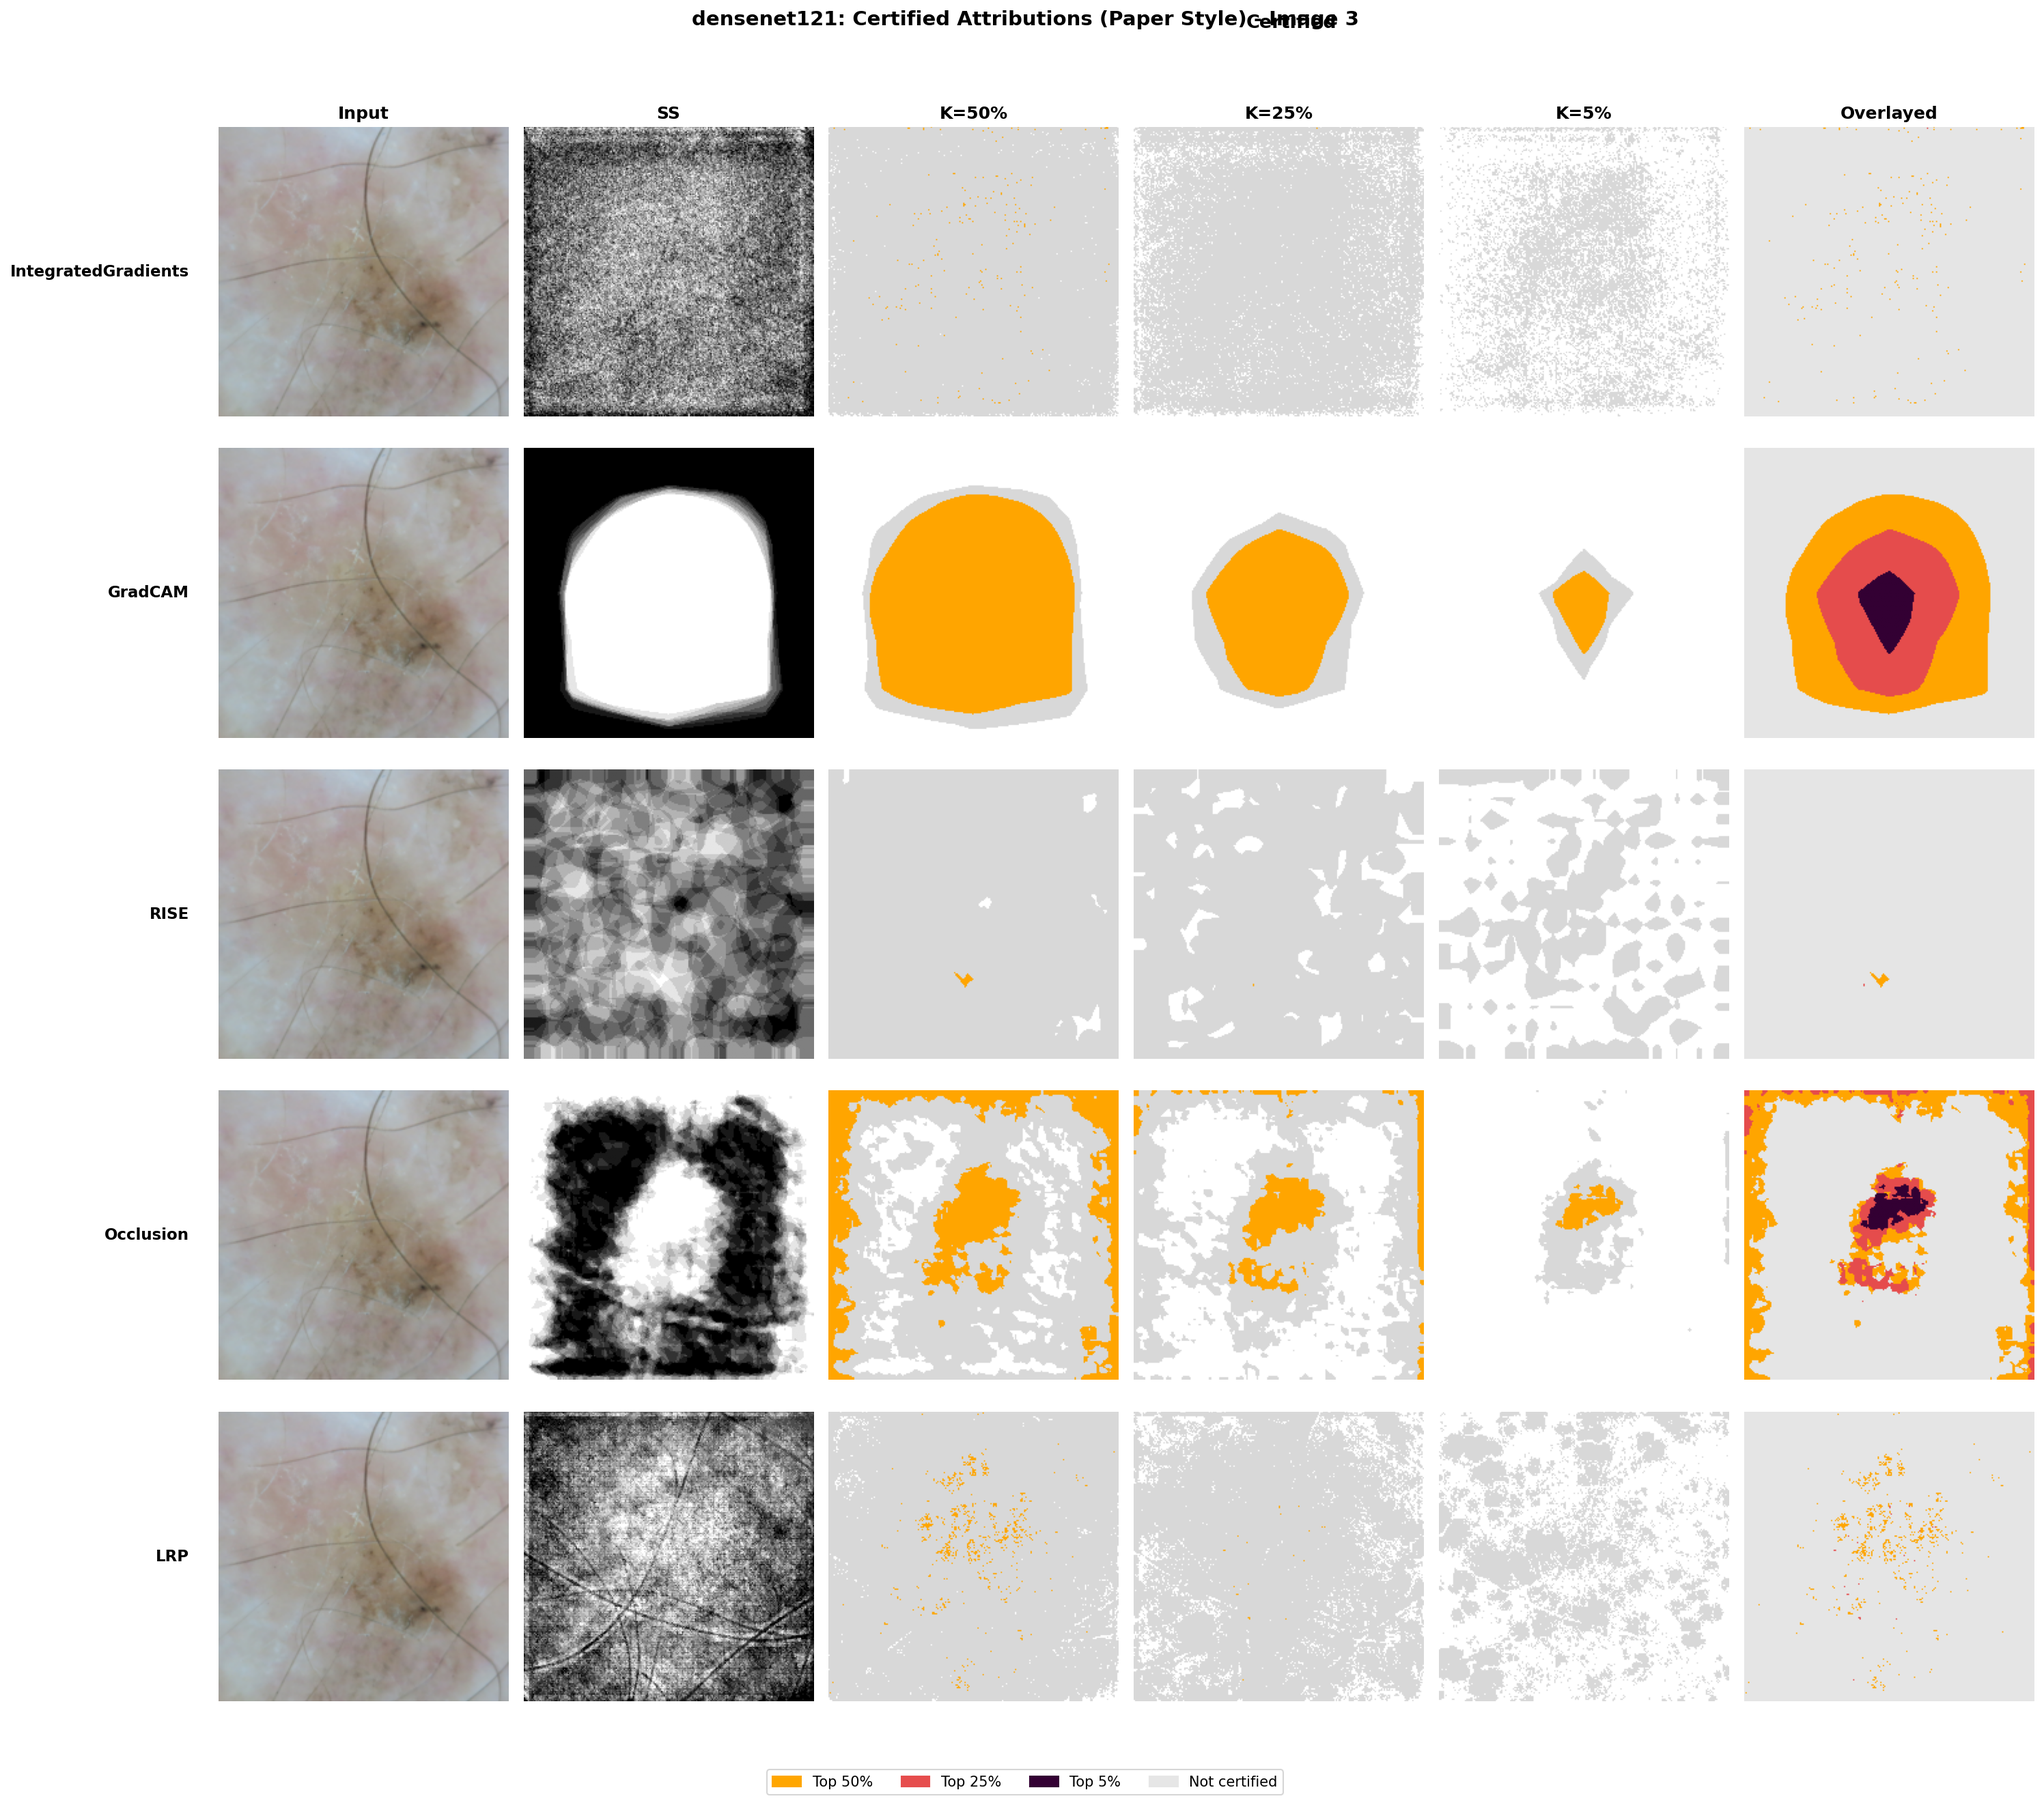
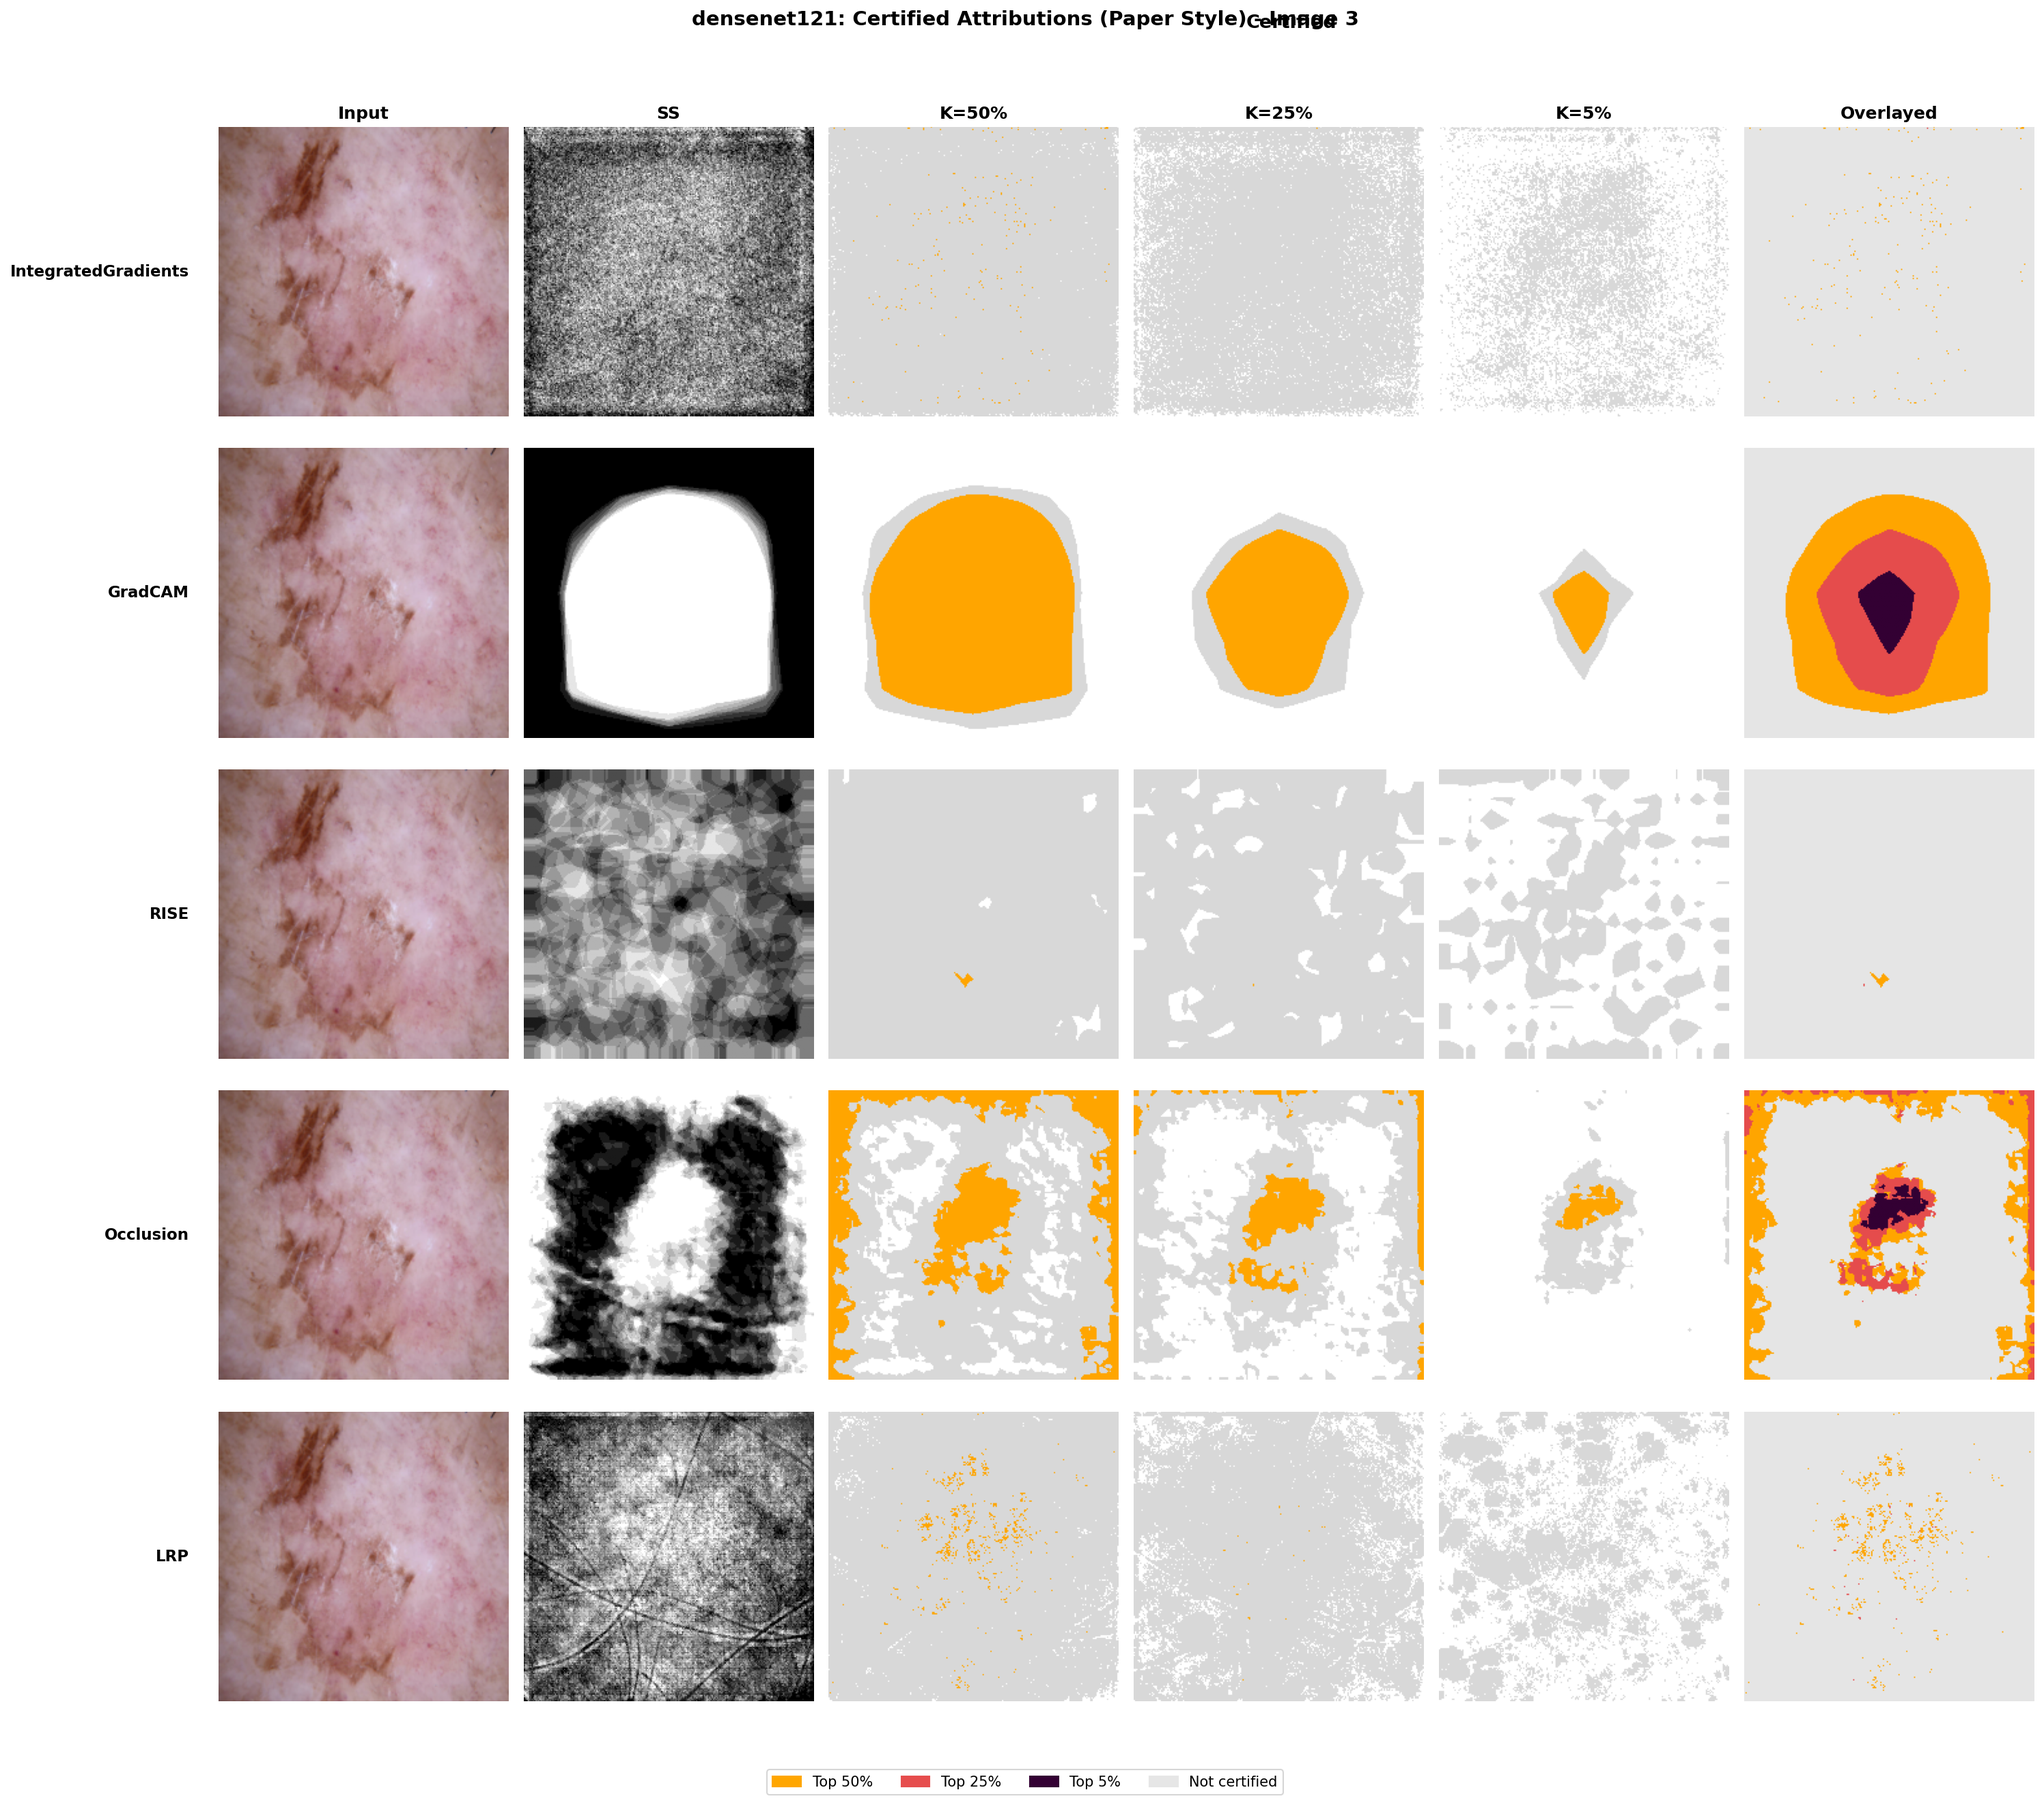
add: path update

Changed region(s): [[0.0932, 0.062, 0.2486, 0.9614]]

diff --git a/regenerate_cert_panels.py b/regenerate_cert_panels.py
@@ -1,0 +1,223 @@
+#!/usr/bin/env python
+"""
+Regenerate paper-style certification panels from saved certification results pickle.
+
+- Loads the dataset (val split) to fetch original images.
+- Reads cert_results from a pickle produced by certify_*_server.py.
+- Rebuilds paper-style panels for every certified image of every model in the pickle.
+- Does NOT rerun certification or smoothing.
+
+Usage example:
+  python regenerate_cert_panels.py \
+    --results_pkl output/certify/isic/results_20251230_120000.pkl \
+    --data_root data/raw/isic \
+    --certify_dir output/certify/isic \
+    --split val
+
+Optional:
+  --models resnet18 densenet121   # limit to these models
+  --methods IntegratedGradients GradCAM RISE Occlusion LRP  # reorder/limit
+  --max_images 0  # 0 means no limit
+"""
+
+import argparse
+import pickle
+from pathlib import Path
+from collections import defaultdict
+
+import numpy as np
+import matplotlib.pyplot as plt
+import matplotlib.patches as mpatches
+
+import torch
+from torchvision import transforms
+from torch.utils.data import DataLoader
+
+# Dataset loaders per project
+from src.datasets.isic import ISICDataset
+from src.datasets.chestxray import ChestXrayDataset
+from src.datasets.brain_mri import BrainMRIDataset
+from src.datasets.fundus import FundusDataset
+
+DATASET_LOADERS = {
+    "isic": ISICDataset,
+    "chestxray": ChestXrayDataset,
+    "brain_mri": BrainMRIDataset,
+    "fundus": FundusDataset,
+}
+
+DEFAULT_METHODS = ["IntegratedGradients", "GradCAM", "RISE", "Occlusion", "LRP"]
+
+
+def _tensor_to_hwc(image_tensor: torch.Tensor) -> np.ndarray:
+    img = image_tensor.detach().cpu().clamp(0, 1).numpy()
+    if img.ndim == 4:
+        img = img[0]
+    return np.transpose(img, (1, 2, 0))
+
+
+def generate_paper_panel_all_methods(save_dir: Path, model_name: str, img_idx: int,
+                                     img_tensor: torch.Tensor, method_results_map: dict,
+                                     methods_order=None):
+    if methods_order is None:
+        methods_order = DEFAULT_METHODS
+    save_dir.mkdir(parents=True, exist_ok=True)
+    img = _tensor_to_hwc(img_tensor)
+    n_rows = len(methods_order)
+    n_cols = 6  # Input, SS, K=50%, K=25%, K=5%, Overlayed
+    fig, axes = plt.subplots(n_rows, n_cols, figsize=(20, 3.5 * n_rows))
+    axes = np.atleast_2d(axes)
+
+    for r, mname in enumerate(methods_order):
+        res_by_k = method_results_map.get(mname, {})
+        # Column 0: Input image
+        ax_input = axes[r, 0]
+        ax_input.imshow(img)
+        if r == 0:
+            ax_input.set_title('Input', fontsize=12, fontweight='bold')
+        ax_input.text(-0.1, 0.5, mname, transform=ax_input.transAxes,
+                     fontsize=11, fontweight='bold', va='center', ha='right', rotation=0)
+        ax_input.axis("off")
+
+        # Column 1: SS (Smoothed Sparsified)
+        ax_ss = axes[r, 1]
+        ss_map = None
+        if res_by_k:
+            ss_map = next(iter(res_by_k.values())).get("ss_map")
+        ax_ss.imshow(ss_map if ss_map is not None else np.zeros(img.shape[:2]), cmap="gray", vmin=0, vmax=1)
+        if r == 0:
+            ax_ss.set_title('SS', fontsize=12, fontweight='bold')
+        ax_ss.axis("off")
+
+        # Columns 2-4: K=50%, 25%, 5% certified maps
+        for ci, k in enumerate([50, 25, 5], start=2):
+            axk = axes[r, ci]
+            res = res_by_k.get(k, {})
+            c_map = res.get("certified_map")
+            if c_map is not None:
+                viz_map = np.ones((c_map.shape[0], c_map.shape[1], 3))
+                viz_map[c_map == 0] = [1.0, 1.0, 1.0]
+                viz_map[c_map == 1] = [1.0, 0.65, 0.0]
+                viz_map[c_map == -1] = [0.85, 0.85, 0.85]
+                axk.imshow(viz_map)
+            else:
+                axk.imshow(np.ones(img.shape[:2] + (3,)) * 0.85)
+            if r == 0:
+                axk.set_title(f'K={k}%', fontsize=12, fontweight='bold')
+            axk.axis("off")
+
+        # Column 5: Overlayed (combine all K certified pixels)
+        axo = axes[r, 5]
+        c50 = res_by_k.get(50, {}).get("certified_map")
+        c25 = res_by_k.get(25, {}).get("certified_map")
+        c5 = res_by_k.get(5, {}).get("certified_map")
+        if c50 is None:
+            c50 = np.zeros(img.shape[:2])
+        if c25 is None:
+            c25 = np.zeros(img.shape[:2])
+        if c5 is None:
+            c5 = np.zeros(img.shape[:2])
+        overlay_map = np.ones(img.shape[:2] + (3,)) * 0.9
+        overlay_map[c50 == 1] = [1.0, 0.65, 0.0]
+        overlay_map[c25 == 1] = [0.9, 0.3, 0.3]
+        overlay_map[c5 == 1] = [0.2, 0.0, 0.2]
+        axo.imshow(overlay_map)
+        if r == 0:
+            axo.set_title('Overlayed', fontsize=12, fontweight='bold')
+        axo.axis("off")
+
+    fig.text(0.63, 0.97, 'Certified', ha='center', fontsize=13, fontweight='bold')
+    legend_patches = [
+        mpatches.Patch(color=[1.0, 0.65, 0.0], label='Top 50%'),
+        mpatches.Patch(color=[0.9, 0.3, 0.3], label='Top 25%'),
+        mpatches.Patch(color=[0.2, 0.0, 0.2], label='Top 5%'),
+        mpatches.Patch(color=[0.9, 0.9, 0.9], label='Not certified'),
+    ]
+    fig.legend(handles=legend_patches, loc='lower center', ncol=4,
+              bbox_to_anchor=(0.5, -0.02), fontsize=10)
+    plt.suptitle(f'{model_name}: Certified Attributions (Paper Style) - Image {img_idx}',
+                fontsize=14, fontweight='bold', y=0.98)
+    plt.tight_layout(rect=[0, 0.02, 1, 0.96])
+    out_path = save_dir / f"{model_name}_img{img_idx}_paper_style.png"
+    plt.savefig(out_path, dpi=150, bbox_inches="tight")
+    plt.close()
+    return out_path
+
+
+def build_image_index(cert_results: dict, methods_order):
+    per_model = {}
+    for model_name, methods_dict in cert_results.items():
+        images_map = defaultdict(lambda: {"label": None, "method_results_map": defaultdict(dict)})
+        for method_name, k_dict in methods_dict.items():
+            if methods_order and method_name not in methods_order:
+                continue
+            for k_percent, entries in k_dict.items():
+                for entry in entries:
+                    img_idx = entry.get("image_idx")
+                    label = entry.get("label")
+                    res = entry.get("results", {})
+                    images_map[img_idx]["label"] = label
+                    images_map[img_idx]["method_results_map"][method_name][k_percent] = res
+        per_model[model_name] = images_map
+    return per_model
+
+
+def load_dataset(dataset_name: str, data_root: Path, split: str):
+    if dataset_name not in DATASET_LOADERS:
+        raise ValueError(f"Unsupported dataset '{dataset_name}'")
+    ds_cls = DATASET_LOADERS[dataset_name]
+    val_transform = transforms.Compose([
+        transforms.Resize((224, 224)),
+        transforms.ToTensor(),
+    ])
+    return ds_cls(str(data_root), split=split, transform=val_transform)
+
+
+def parse_args():
+    p = argparse.ArgumentParser("Regenerate certification panels from pickle")
+    p.add_argument("--results_pkl", required=True, help="Path to results_<timestamp>.pkl")
+    p.add_argument("--certify_dir", required=True, help="Base certify dir (panels will be saved here)")
+    p.add_argument("--data_root", required=True, help="Dataset root (e.g., data/raw/isic)")
+    p.add_argument("--split", default="val")
+    p.add_argument("--dataset", required=True, choices=list(DATASET_LOADERS.keys()))
+    p.add_argument("--models", nargs="*", default=None, help="Optional whitelist of model names")
+    p.add_argument("--methods", nargs="*", default=None, help="Optional whitelist/order of methods")
+    p.add_argument("--max_images", type=int, default=0, help="Limit images per model (0 = no limit)")
+    return p.parse_args()
+
+
+def main():
+    args = parse_args()
+    results_pkl = Path(args.results_pkl)
+    certify_dir = Path(args.certify_dir)
+    data_root = Path(args.data_root)
+    methods_order = args.methods if args.methods else DEFAULT_METHODS
+
+    with open(results_pkl, "rb") as f:
+        cert_results = pickle.load(f)
+
+    per_model = build_image_index(cert_results, methods_order)
+    dataset = load_dataset(args.dataset, data_root, args.split)
+
+    for model_name, images_map in per_model.items():
+        if args.models and model_name not in args.models:
+            continue
+        print(f"Model: {model_name} (images: {len(images_map)})")
+        count = 0
+        for img_idx, data in images_map.items():
+            if args.max_images and count >= args.max_images:
+                break
+            method_results_map = {m: dict(kdict) for m, kdict in data["method_results_map"].items()}
+            if not method_results_map:
+                continue
+            sample = dataset[img_idx]
+            image_tensor = sample["image"] if isinstance(sample, dict) else sample[0]
+            out_panel = generate_paper_panel_all_methods(certify_dir, model_name, img_idx, image_tensor, method_results_map, methods_order)
+            print(f"  ✓ Saved panel: {out_panel}")
+            count += 1
+
+    print("Done. Panels regenerated from saved certification results.")
+
+
+if __name__ == "__main__":
+    main()

diff --git a/run_bulk_certify_resnet18.py b/run_bulk_certify_resnet18.py
@@ -40,7 +40,7 @@ DATASETS = [
 
 def run_cert(dataset: dict):
     name = dataset["name"]
-    out_base = PROJECT_ROOT / "output" / "bulk_certifcation" / name / "resnet18"
+    out_base = PROJECT_ROOT / "outputs" / "bulk_certifcation" / name / "resnet18"
     heatmap_dir = out_base / "certified_maps"
     out_base.mkdir(parents=True, exist_ok=True)
     heatmap_dir.mkdir(parents=True, exist_ok=True)

diff --git a/run_bulk_attribution_resnet18.py b/run_bulk_attribution_resnet18.py
@@ -36,7 +36,7 @@ DATASETS = [
 
 def run_attr(dataset: dict):
     name = dataset["name"]
-    out_base = PROJECT_ROOT / "output" / "bulk_attrubution" / name / "resnet18"
+    out_base = PROJECT_ROOT / "outputs" / "bulk_attrubution" / name / "resnet18"
     log_dir = out_base / "logs"
     out_base.mkdir(parents=True, exist_ok=True)
     log_dir.mkdir(parents=True, exist_ok=True)
